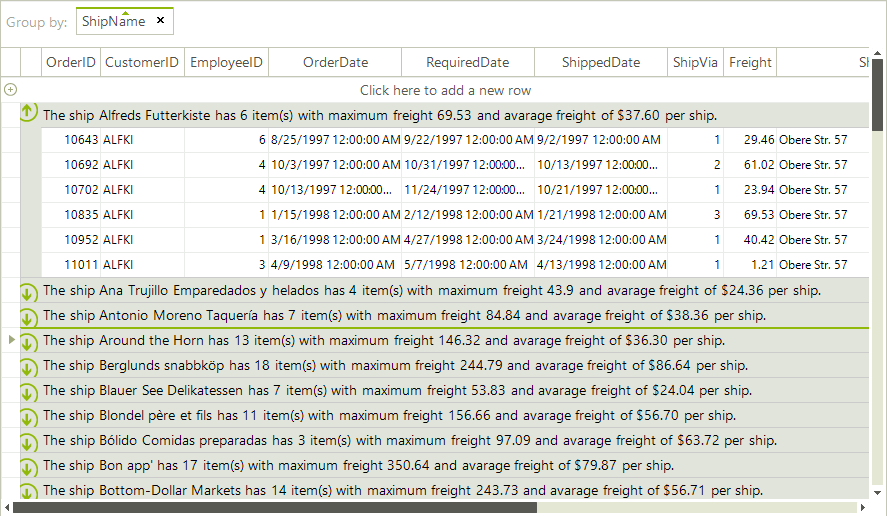
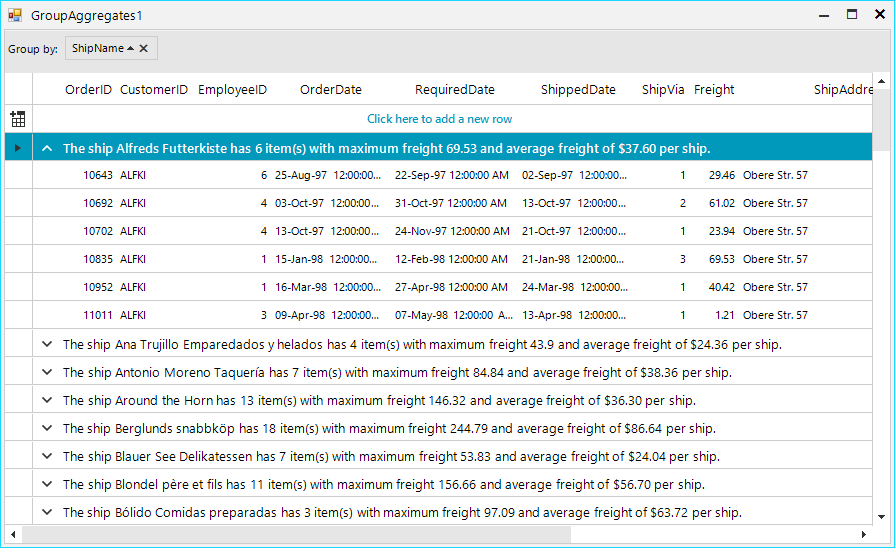
GridView: Update Group Aggregates code snippet and image

diff --git a/controls/gridview/grouping/group-aggregates.md b/controls/gridview/grouping/group-aggregates.md
@@ -59,7 +59,7 @@ descriptor.GroupNames.Add("ShipName", ListSortDirection.Ascending);
 descriptor.Aggregates.Add("Count(ShipName)");
 descriptor.Aggregates.Add("Max(Freight)");
 descriptor.Aggregates.Add("Avg(Freight)");
-descriptor.Format = "The ship {1} has {2} item(s) with maximum freight {3} and avarage freight of {4:c2} per ship.";
+descriptor.Format = "The ship {1} has {2} item(s) with maximum freight {3} and average freight of {4:c2} per ship.";
 this.radGridView1.GroupDescriptors.Add(descriptor);
 
 ````
@@ -69,7 +69,7 @@ descriptor.GroupNames.Add("ShipName", ListSortDirection.Ascending)
 descriptor.Aggregates.Add("Count(ShipName)")
 descriptor.Aggregates.Add("Max(Freight)")
 descriptor.Aggregates.Add("Avg(Freight)")
-descriptor.Format = "The ship {1} has {2} item(s) with maximum freight {3} and avarage freight of {4:c2} per ship."
+descriptor.Format = "The ship {1} has {2} item(s) with maximum freight {3} and average freight of {4:c2} per ship."
 Me.RadGridView1.GroupDescriptors.Add(descriptor)
 
 ````
